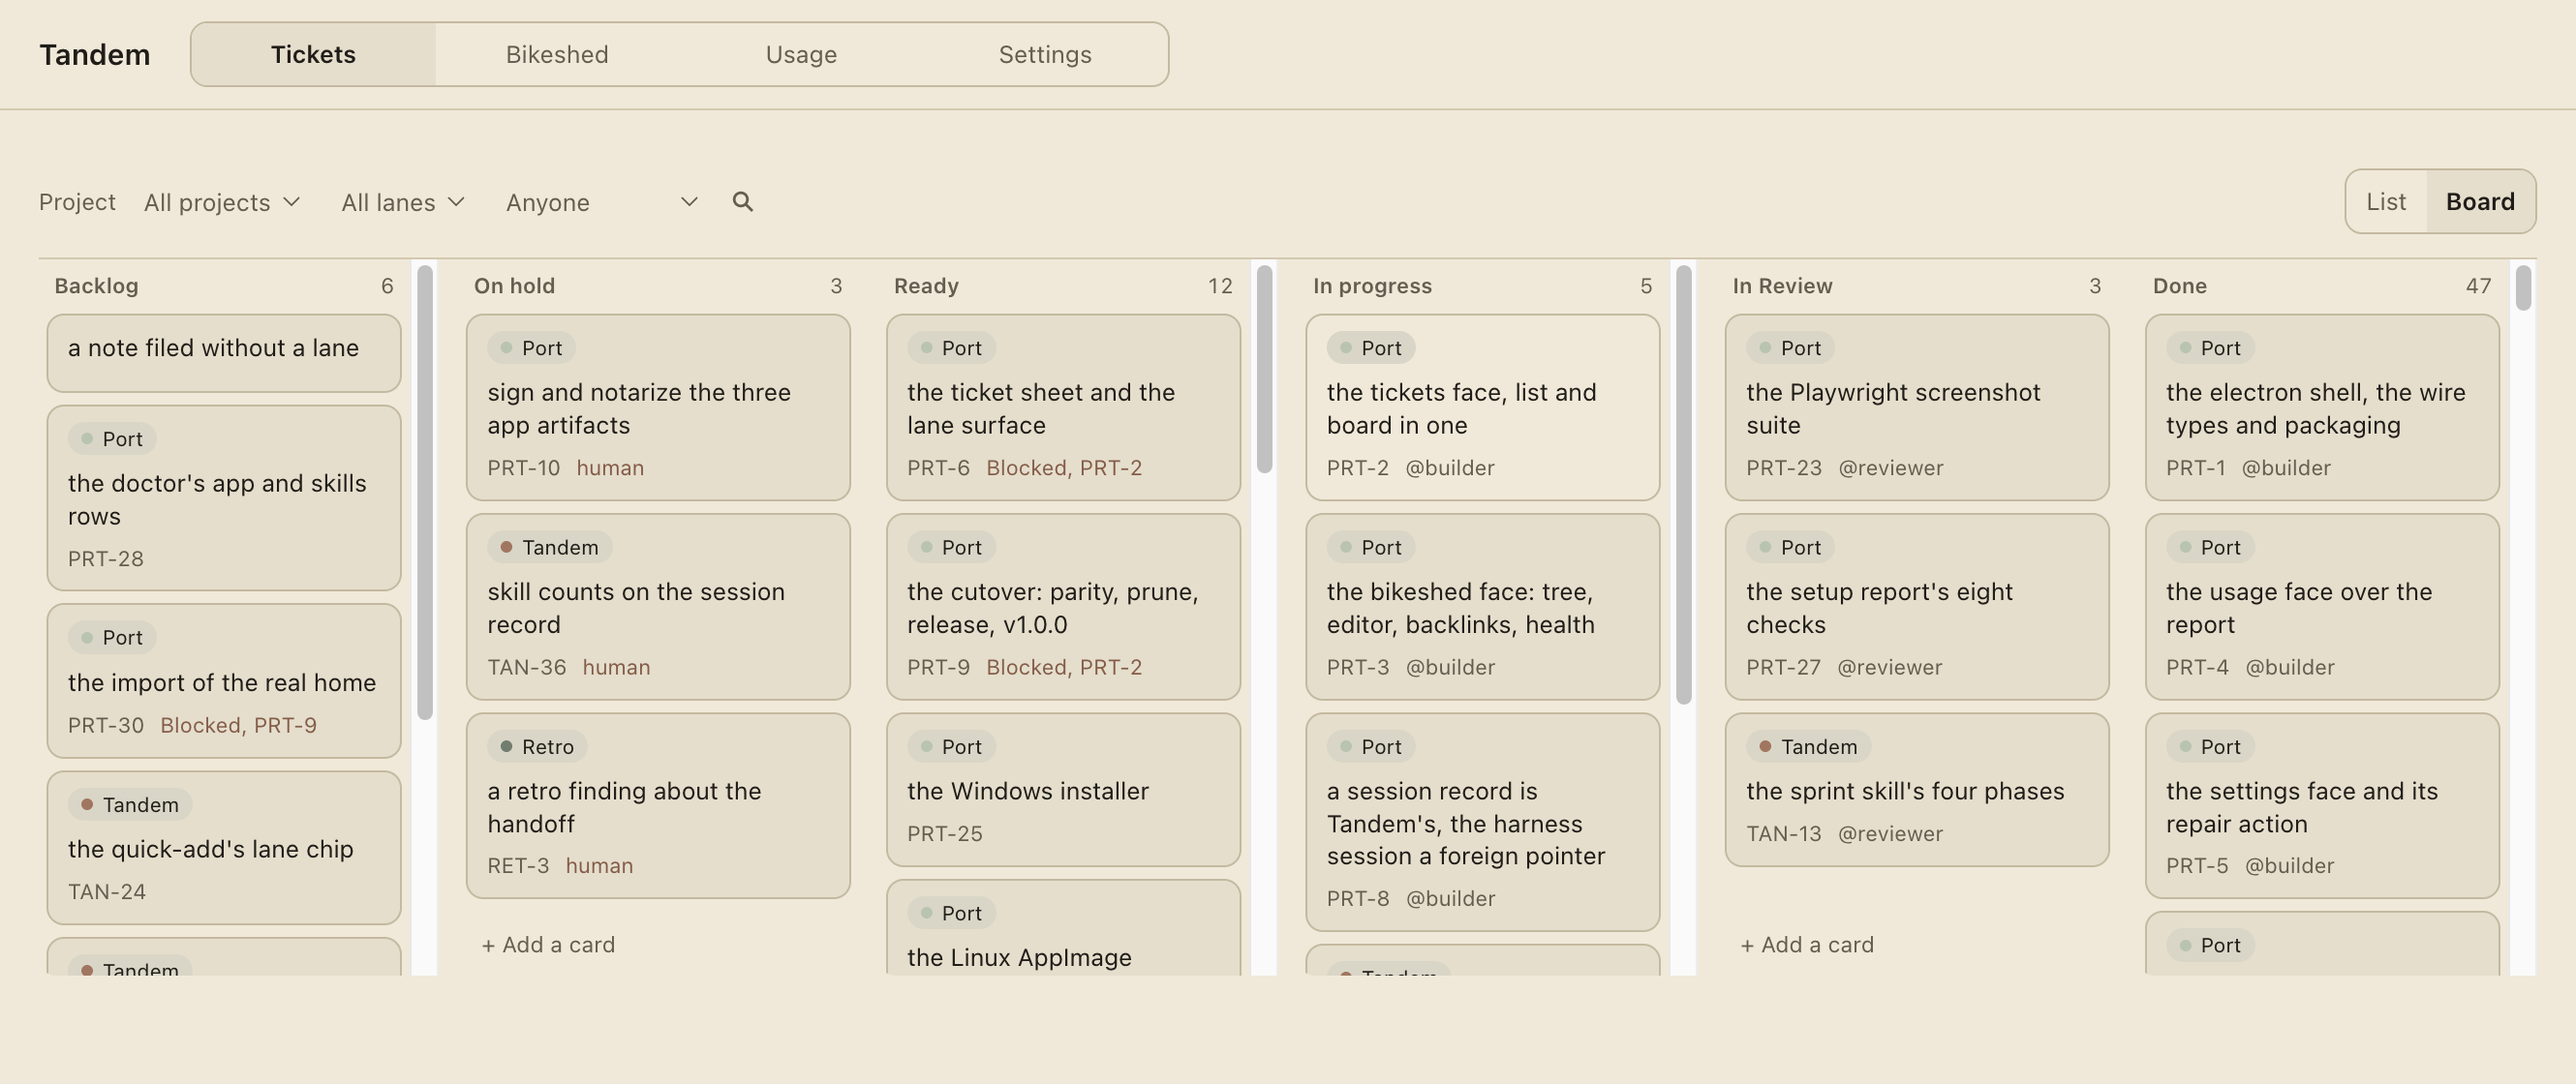
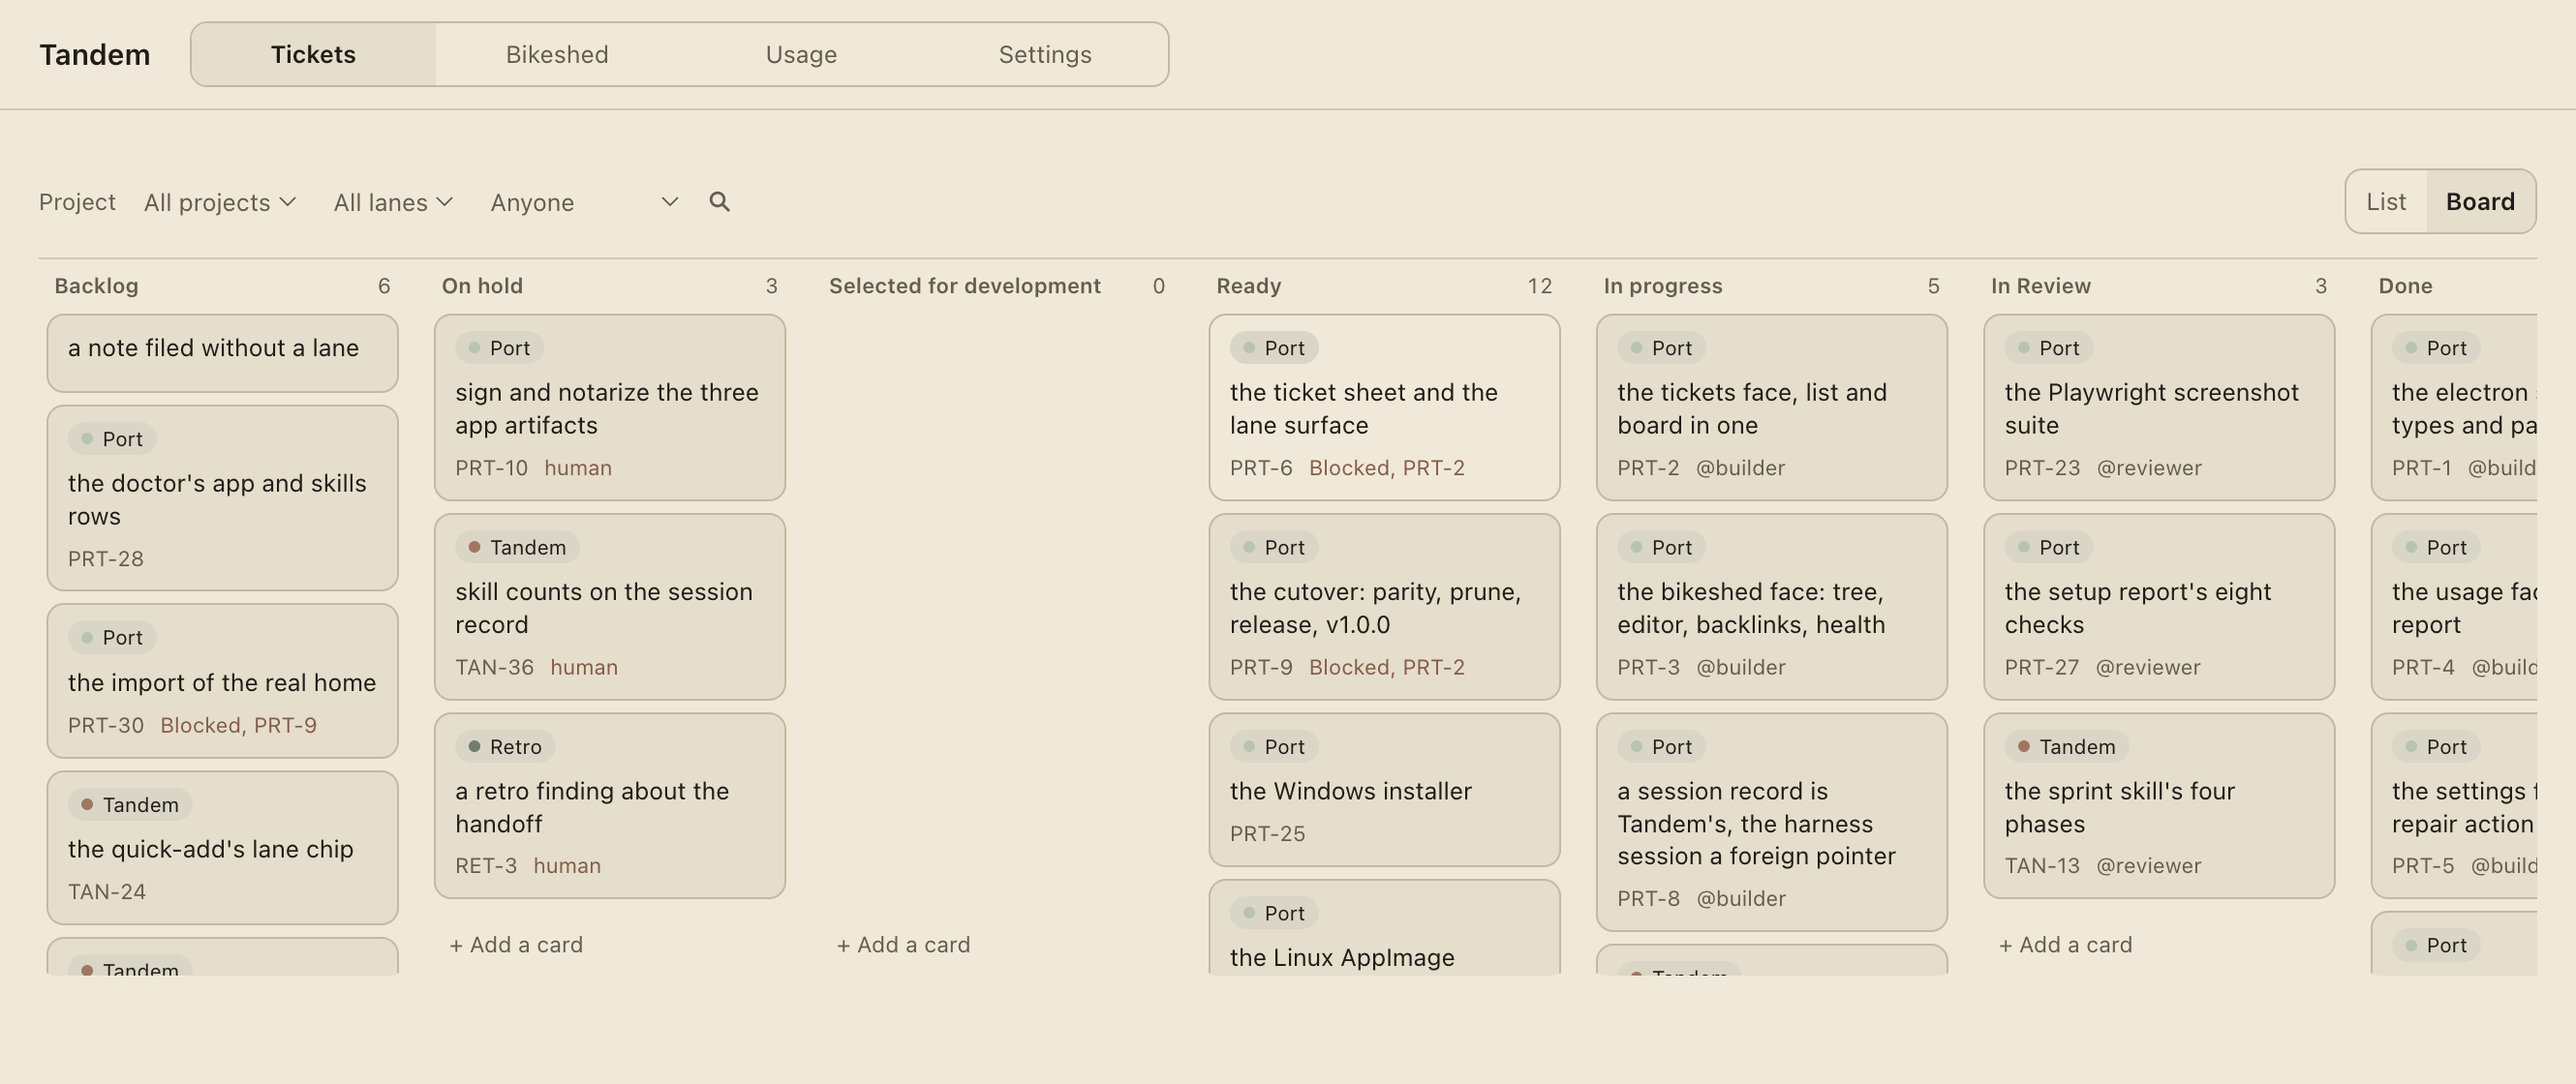
TAN-327: the published contract names selected

diff --git a/app/tests/shots/focus.shots.ts b/app/tests/shots/focus.shots.ts
@@ -72,7 +72,7 @@ test('the focused tickets face draws only the active project across the columns'
   await expect(picker).toBeVisible()
   await expect(picker).toHaveValue((focus as { name: string }).name)
 
-  // ...and the board draws that project's cards across the six columns: every
+  // ...and the board draws that project's cards across the seven columns: every
   // lane chip names one of the project's lanes, and the cards are the store's.
   const project = focus as { name: string; lanes: string[] }
   const chips = await window.locator('.ticket-card__lane').allInnerTexts()
@@ -90,7 +90,7 @@ test('the focused tickets face draws only the active project across the columns'
 
   await window.getByRole('tab', { name: 'Board' }).click()
 
-  // The picture is the focused face: one project across the six columns, plus
+  // The picture is the focused face: one project across the seven columns, plus
   // the focus control.
   await capture(app, window, scene('tickets-focus'), 1330)
 

diff --git a/rust/cli/src/usage.rs b/rust/cli/src/usage.rs
@@ -145,7 +145,7 @@ pub const ROOT: &str = concat!(
     "\n",
     "Values:",
     "\n",
-    "  status    backlog | on-hold | ready | in-progress | in-review | done",
+    "  status    backlog | on-hold | selected | ready | in-progress | in-review | done",
     "\n",
     "            running | ended \u{2014} a session's status, on `session list`",
     "\n",
@@ -218,7 +218,7 @@ pub fn group(name: &str) -> Option<&'static str> {
             "\n",
             "Values:",
             "\n",
-            "  status    backlog | on-hold | ready | in-progress | in-review | done",
+            "  status    backlog | on-hold | selected | ready | in-progress | in-review | done",
             "\n",
             "  filter    open (default) | done | all",
             "\n",
@@ -433,7 +433,7 @@ pub fn verb(name: &str) -> Option<&'static str> {
             "\n",
             "Values:",
             "\n",
-            "  status    backlog | on-hold | ready | in-progress | in-review | done",
+            "  status    backlog | on-hold | selected | ready | in-progress | in-review | done",
             "\n",
             "  filter    open (default) | done | all",
             "\n",
@@ -514,7 +514,7 @@ pub fn verb(name: &str) -> Option<&'static str> {
             "\n",
             "Values:",
             "\n",
-            "  status    backlog | on-hold | ready | in-progress | in-review | done",
+            "  status    backlog | on-hold | selected | ready | in-progress | in-review | done",
             "\n",
             "  assignee  a name, `self` ($TANDEM_AGENT), or \"\" for the unassigned",
             "\n",
@@ -547,7 +547,7 @@ pub fn verb(name: &str) -> Option<&'static str> {
             "\n",
             "Values:",
             "\n",
-            "  status    backlog | on-hold | ready | in-progress | in-review | done",
+            "  status    backlog | on-hold | selected | ready | in-progress | in-review | done",
             "\n",
             "  assignee  a name, `self` ($TANDEM_AGENT), or \"\" for the unassigned",
             "\n",

diff --git a/rust/cli/tests/workflow.rs b/rust/cli/tests/workflow.rs
@@ -161,6 +161,41 @@ fn workflow_show_reports_the_seven_stage_default() {
     assert_eq!(selected["binding"], Value::Null, "no binding on selected");
 }
 
+/// The help's status line is a static string, so it drifts the moment the
+/// default workflow gains a stage. Pin it to the default a fresh home declares:
+/// the same keys, in the same order, or the contract lies to the caller.
+#[test]
+fn the_help_status_line_names_every_default_stage_in_workflow_order() {
+    let sandbox = Sandbox::new("help-status");
+    let shown = json(&sandbox.run(&["workflow", "show", "--id", "agile"]));
+    let keys = shown["workflow"]["stages"]
+        .as_array()
+        .expect("stages")
+        .iter()
+        .map(|stage| stage["key"].as_str().unwrap_or("").to_string())
+        .collect::<Vec<_>>();
+
+    let help = sandbox.run(&["--help"]);
+    assert!(help.status.success(), "`--help` answers");
+    let text = String::from_utf8(help.stdout).expect("the help is UTF-8");
+    let line = text
+        .lines()
+        .find(|line| line.trim_start().starts_with("status    "))
+        .expect("the help prints a status line");
+    let named = line
+        .split_once("status    ")
+        .expect("the status label")
+        .1
+        .split(" | ")
+        .map(str::trim)
+        .collect::<Vec<_>>();
+
+    assert_eq!(
+        named, keys,
+        "`--help`'s status line names the default workflow's stages, in its order"
+    );
+}
+
 #[test]
 fn workflow_set_round_trips_a_second_intake_stage() {
     let sandbox = Sandbox::new("custom");

diff --git a/rust/core/src/wire/rpc.rs b/rust/core/src/wire/rpc.rs
@@ -693,7 +693,9 @@ impl TicketAddParams {
             ("title", string("one line, trimmed; required")),
             (
                 "status",
-                string("backlog (default), on-hold, ready, in-progress, in-review or done"),
+                string(
+                    "backlog (default), on-hold, selected, ready, in-progress, in-review or done",
+                ),
             ),
             (
                 "assignee",
@@ -723,7 +725,9 @@ impl TicketAddFromNoteParams {
             ("text", string("the selection to file as a ticket")),
             (
                 "status",
-                string("backlog (default), on-hold, ready, in-progress, in-review or done"),
+                string(
+                    "backlog (default), on-hold, selected, ready, in-progress, in-review or done",
+                ),
             ),
             (
                 "assignee",
@@ -750,7 +754,7 @@ impl TicketSetParams {
             ),
             (
                 "status",
-                string("backlog, on-hold, ready, in-progress, in-review or done"),
+                string("backlog, on-hold, selected, ready, in-progress, in-review or done"),
             ),
             (
                 "assignee",

diff --git a/rust/core/src/domain/error.rs b/rust/core/src/domain/error.rs
@@ -46,7 +46,7 @@ pub enum DomainError {
     StandardInputNotUtf8,
     /// `list` was given a filter that is not `open`, `done` or `all`.
     InvalidFilter(String),
-    /// A status value that is empty, or not one of the six default keys.
+    /// A status value that is empty, or the retired `refined` spelling.
     InvalidStatus(String),
     /// A status value the active workflow does not declare. `stages` is the
     /// valid stage-key list, so the refusal names what the caller may pick.

diff --git a/skills/tandem-refine/SKILL.md b/skills/tandem-refine/SKILL.md
@@ -7,7 +7,7 @@ description: "Dispatch the refiner to shape a backlog ticket into a buildable br
 
 A refine session shapes tickets and builds nothing. This door dispatches the `refiner` subagent (`agents/refiner.md`) — so the human can pick a different model for the slow interview than for the build.
 
-1. Show the queue. Read the active workflow (`tandem-cli workflow show --id agile`, or `workflow list`), then its intake stages in stage order. The intake stage nearest Ready is the queue: `tandem-cli ticket list --filter open --status <queue-key>` shows its open tickets in stored order as this pass's batch. When the queue has tickets, show the backlog as a count and reach it only on the human's explicit ask; when the queue is empty, falls back to the backlog as today. On-hold tickets with open questions or `--assignee human` still show. There is no cap: the queue is the human's plan, not a quota. Promotion into the queue is human-only: the board or the CLI moves a ticket in, while the refiner drains the stage and never fills it. When a `selected` ticket splits, its parts are filed in `selected` so they stay in the queue; a backlog parent's parts stay `backlog`.
+1. Show the queue. Read the active workflow (`tandem-cli workflow show --id agile`, or `workflow list`), then its intake stages in stage order. The intake stage nearest Ready is the queue: `tandem-cli ticket list --filter open --status <queue-key>` shows its open tickets in stored order as this pass's batch. When the queue has tickets, show the backlog as a count and reach it only on the human's explicit ask; when the queue is empty, it falls back to the backlog as today. On-hold tickets with open questions or `--assignee human` still show. There is no cap: the queue is the human's plan, not a quota. Promotion into the queue is human-only: the board or the CLI moves a ticket in, while the refiner drains the stage and never fills it. When a `selected` ticket splits, its parts are filed in `selected` so they stay in the queue; a backlog parent's parts stay `backlog`.
 2. **Pick the mode before the first dispatch** — the human in the session chooses: **one at a time** (the default) or **in parallel**. A refiner interviews the human, so parallel dispatches divide the human's attention across simultaneous interviews; in parallel, that cost is the human's accepted one, not a silent one.
 3. Dispatch `refiner` with the ticket id. One ticket per dispatch. In parallel mode, dispatch one refiner per batched ticket at once.
 4. **Every ticket gets its human round.** The refiner grills the human per ticket (`agents/refiner.md` step 1) before writing any brief, and a short confirmation round counts for trivial or fully specified tickets. A dispatched refiner relays its frontier through this session and waits; the pass writes no brief until the human answers. The only opt-out is the human's live per-case delegation, quoted in the brief. Only refine moves a ticket to `ready`: a finished brief the sprint finds still goes through refine, with its short round.

diff --git a/README.md b/README.md
@@ -206,7 +206,7 @@ tandem-cli settings set [--roster <name>]...
 tandem-cli doctor
 ```
 
-The Statuses are `backlog`, `on-hold`, `ready`, `in-progress`, `in-review` and `done` (`on-hold` is the parked slot: a blocker, a human decision pending); a ticket's cycle lane is named with `--lane`, and the unnamed default area always comes first. A ticket in a lane carries a **ref** — the lane's key and a per-lane number, `TAN-42` — and every `--id` (or `--ticket`) accepts it beside the full UUID; the default area's tickets have none, and a lane's key is frozen once its tickets carry numbers. A session keeps its own vocabulary — `running` and `ended`, and an outcome of `succeeded`, `failed`, `interrupted` or `unknown` — and never borrows the board's Status. A sprint keeps its own vocabulary too — `open` and `closed`, with a batch built `serial` or `parallel` — and never borrows the board's Status either.
+The Statuses are `backlog`, `on-hold`, `selected`, `ready`, `in-progress`, `in-review` and `done` (`on-hold` is the parked slot: a blocker, a human decision pending); a ticket's cycle lane is named with `--lane`, and the unnamed default area always comes first. A ticket in a lane carries a **ref** — the lane's key and a per-lane number, `TAN-42` — and every `--id` (or `--ticket`) accepts it beside the full UUID; the default area's tickets have none, and a lane's key is frozen once its tickets carry numbers. A session keeps its own vocabulary — `running` and `ended`, and an outcome of `succeeded`, `failed`, `interrupted` or `unknown` — and never borrows the board's Status. A sprint keeps its own vocabulary too — `open` and `closed`, with a batch built `serial` or `parallel` — and never borrows the board's Status either.
 
 `todo` still answers for `ticket` as a deprecated alias: same parse, same output, one line on stderr saying so, and the `list` reply carries both `tickets` and `todos` with the same array ([ADR 0030](docs/adr/0030-one-entity-the-ticket.md)). The alias and the doubled reply go in the release after the one that deprecated them.
 

diff --git a/docs/adr/0017-the-ticket-model.md b/docs/adr/0017-the-ticket-model.md
@@ -4,7 +4,7 @@
 
 > **Amended 2026-10-26 by [ADR 0031](0031-one-database-the-store.md):** the comment log this record added as `<home>/comments/<ticket-id>.jsonl`, appended under the store's sidecar `flock`, is the `comments` table, and an append is one transaction. The ticket model itself — status, archive, lane, description, assignee — is unchanged. The amendment's text is ADR 0031's.
 
-> **Amended 2026-11-08 by [ADR 0041](0041-workflows-are-data.md):** statuses become the active workflow's stages; the six values named below are the default `agile` workflow's keys, and a custom stage carries its stored key as a `Custom` status. The amendment's text is ADR 0041's.
+> **Amended 2026-11-08 by [ADR 0041](0041-workflows-are-data.md):** statuses become the active workflow's stages; the default `agile` workflow's seven keys are `backlog`, `on-hold`, `selected`, `ready`, `in-progress`, `in-review` and `done`, and a custom stage carries its stored key as a `Custom` status. The amendment's text is ADR 0041's.
 
 [ADR 0010](0010-todo-note-links.md) called a todo "a title and a done state". It is now a **ticket**, and the shape we settled is three independent axes. **Status** is one axis of five values — `backlog` (the default), `refined`, `ready`, `in-progress`, `done` — so *done is where the workflow ends, not a flag set beside it*; transitions are **free-form** (the store validates the value, never the transition). **Archived** is a second axis: a ticket set aside, out of the default views, still in the store; any ticket can be archived, and archiving done work is how a list is cleared without deleting. **Cycle lane** — the concept the store still calls `section` — is the third: the area of concern, which the list groups by and the board draws as its rows. Two fields ride along: `description` (markdown) and `assignee` (a human, or an agent id — a plain string until a persona registry exists). All of it is additive, so the envelope **version stays `1`** ([ADR 0006](0006-stored-order-and-sections.md)).
 

diff --git a/docs/screenshots/README.md b/docs/screenshots/README.md
@@ -115,7 +115,7 @@ asserts each scene and never diffs the committed pictures.
 
 A face taller than the window is laid out at its own height (the scroll
 constraint lifted, the width kept) and shot whole, so a picture of a table is
-the whole table; a board is laid out at the width its six status columns need,
+the whole table; a board is laid out at the width its seven status columns need,
 so the picture is the whole board rather than a column and a half of it. The
 scratch home is seeded again before every test, so a spec that writes (a drag, a
 save, the CLI as a second writer) cannot change the next spec's picture or its

diff --git a/docs/screenshots/README.template.md b/docs/screenshots/README.template.md
@@ -115,7 +115,7 @@ asserts each scene and never diffs the committed pictures.
 
 A face taller than the window is laid out at its own height (the scroll
 constraint lifted, the width kept) and shot whole, so a picture of a table is
-the whole table; a board is laid out at the width its six status columns need,
+the whole table; a board is laid out at the width its seven status columns need,
 so the picture is the whole board rather than a column and a half of it. The
 scratch home is seeded again before every test, so a spec that writes (a drag, a
 save, the CLI as a second writer) cannot change the next spec's picture or its
